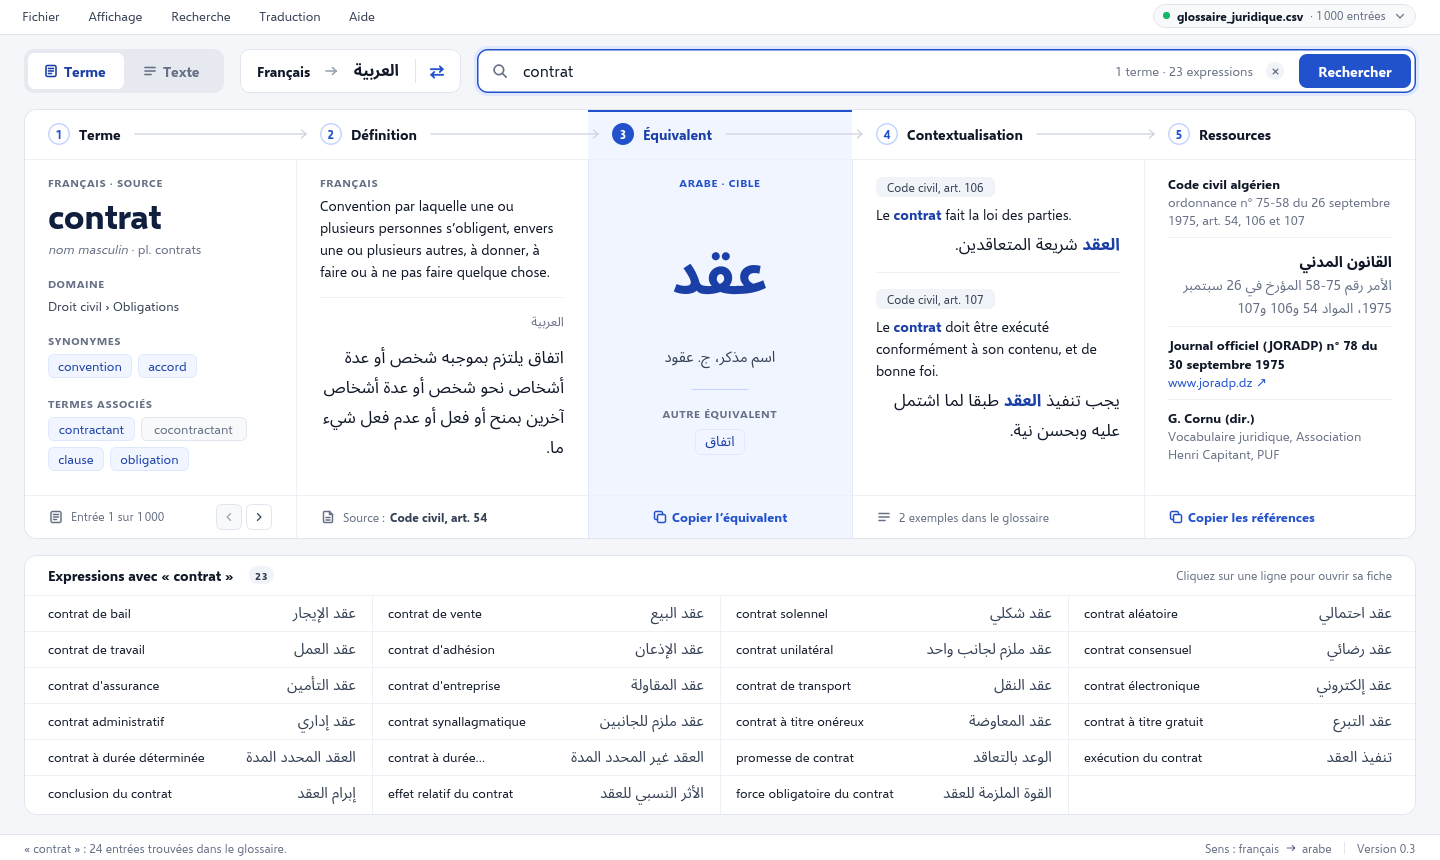
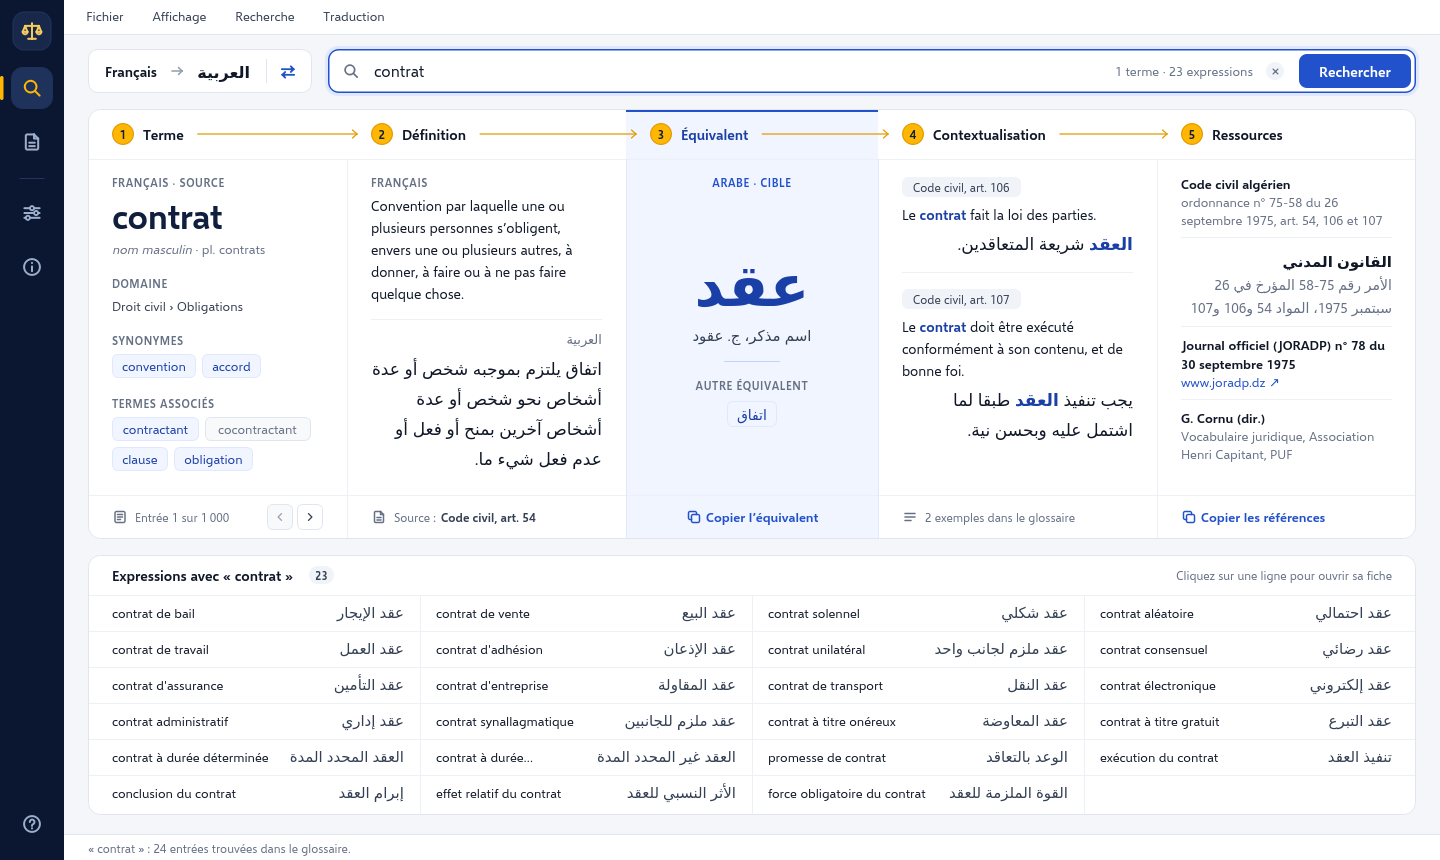
Version 0.4 : README récrit pour la nouvelle interface, captures refaites, pointeur d'attente pendant la traduction et « Tout développer »

diff --git a/tests/test_interface_texte.py b/tests/test_interface_texte.py
@@ -357,6 +357,42 @@ def test_ouvrir_et_refermer_les_cartes(page, application):
     assert panneau.bouton_tout.text() == "Tout développer"
 
 
+def test_le_pointeur_d_attente_s_affiche_pendant_une_operation_longue(page, monkeypatch):
+    """Traduire un long texte ou ouvrir toutes les cartes peut durer : le pointeur d'attente l'indique."""
+    pointeurs = []
+
+    def relever() -> None:
+        pointeur = QGuiApplication.overrideCursor()
+        pointeurs.append(None if pointeur is None else pointeur.shape())
+
+    # Pendant la traduction.
+    traduire_vraiment = page.traducteur.traduire
+    monkeypatch.setattr(page.traducteur, "traduire", lambda *arguments: (relever(), traduire_vraiment(*arguments))[1])
+    page.inserer_un_exemple()
+    page.traduire()
+    assert pointeurs == [Qt.CursorShape.WaitCursor] and QGuiApplication.overrideCursor() is None
+    assert page.traduction is not None and len(page.termes.cartes) > 2
+    # Pendant « Tout développer ».
+    derniere = page.termes.cartes[-1]
+    ouvrir_vraiment = derniere.definir_ouverte
+    monkeypatch.setattr(derniere, "definir_ouverte",
+                        lambda ouverte, **options: (relever(), ouvrir_vraiment(ouverte, **options))[1])
+    page.termes.bouton_tout.click()
+    assert pointeurs == [Qt.CursorShape.WaitCursor] * 2 and QGuiApplication.overrideCursor() is None
+    assert page.termes.tout_ouvert()
+
+
+def test_le_pointeur_est_retabli_si_la_traduction_echoue(page, monkeypatch):
+    def echouer(*arguments):
+        raise RuntimeError("panne")
+
+    monkeypatch.setattr(page.traducteur, "traduire", echouer)
+    page.inserer_un_exemple()
+    with pytest.raises(RuntimeError):
+        page.traduire()
+    assert QGuiApplication.overrideCursor() is None
+
+
 def test_un_seul_terme_n_a_pas_de_bouton_tout_developper(page):
     traduire(page, "Le juge.")
     assert termes_des_cartes(page) == ["juge"] and page.termes.cartes[0].ouverte

diff --git a/traducteur/interface/composants.py b/traducteur/interface/composants.py
@@ -2,13 +2,15 @@
 
 from __future__ import annotations
 
-from collections.abc import Sequence
+from collections.abc import Iterator, Sequence
+from contextlib import contextmanager
 from html import escape
 
 from PySide6.QtCore import QPoint, QPointF, QRect, QRectF, QSize, Qt
 from PySide6.QtGui import QColor, QFont, QFontMetricsF, QPainter, QPainterPath, QPen
 from PySide6.QtWidgets import (
     QAbstractButton,
+    QApplication,
     QBoxLayout,
     QFrame,
     QLabel,
@@ -53,6 +55,20 @@ def direction(langue: str) -> Qt.LayoutDirection:
 def alignement(langue: str) -> Qt.AlignmentFlag:
     """Alignement horizontal du texte d'une langue : à droite pour l'arabe."""
     return DROITE if est_rtl(langue) else GAUCHE
+
+
+@contextmanager
+def sablier() -> Iterator[None]:
+    """Affiche le pointeur d'attente pendant une opération qui peut durer (texte long).
+
+    La fenêtre ne répond pas pendant l'opération : le pointeur le fait savoir. Il est rétabli
+    dans tous les cas, même si l'opération échoue.
+    """
+    QApplication.setOverrideCursor(Qt.CursorShape.WaitCursor)
+    try:
+        yield
+    finally:
+        QApplication.restoreOverrideCursor()
 
 
 def infobulle(*paragraphes: str, espace: int = 6) -> str:

diff --git a/traducteur/interface/termes.py b/traducteur/interface/termes.py
@@ -45,6 +45,7 @@ from .composants import (
     paragraphe,
     pastille,
     puce_neutre,
+    sablier,
     separateur,
 )
 from .dessin import abreger, dessiner_ligne, dessiner_numero, largeur_du_texte, police
@@ -603,9 +604,14 @@ class PanneauTermes(Panneau):
         return bool(self.cartes) and all(carte.ouverte for carte in self.cartes)
 
     def definir_tout(self, ouvert: bool) -> None:
-        """Ouvre ou referme toutes les cartes d'un coup (sans animation)."""
-        for carte in self.cartes:
-            carte.definir_ouverte(ouvert, animer=False)
+        """Ouvre ou referme toutes les cartes d'un coup (sans animation).
+
+        Le contenu d'une carte n'est construit qu'à sa première ouverture : les ouvrir toutes
+        prend plusieurs secondes quand le texte compte des centaines de termes.
+        """
+        with sablier():
+            for carte in self.cartes:
+                carte.definir_ouverte(ouvert, animer=False)
         if not ouvert:
             self.defilement.revenir_en_haut()
 

diff --git a/traducteur/interface/texte.py b/traducteur/interface/texte.py
@@ -71,6 +71,7 @@ from .composants import (
     infobulle,
     nombre,
     repeindre,
+    sablier,
     separateur,
 )
 from .dessin import abreger, dessiner_ligne, dessiner_numero, largeur_du_texte, melanger, police
@@ -932,7 +933,8 @@ class PageTexte(QWidget):
             if langue is not None and langue != self.source:
                 self.definir_sens(langue)
                 self.message.emit(f"Texte écrit en {NOM_EN_FRANCAIS[langue]} : le sens de traduction a été inversé.")
-        self._afficher(self.traducteur.traduire(texte, self.source))
+        with sablier():
+            self._afficher(self.traducteur.traduire(texte, self.source))
 
     def _afficher(self, traduction: Traduction | None) -> None:
         """Affiche une traduction, ou l'état initial si ``traduction`` est vide."""

diff --git a/traducteur/__init__.py b/traducteur/__init__.py
@@ -9,5 +9,5 @@ Le paquet est organisé en deux parties :
 * l'interface de bureau (PySide6 / Qt), dans le sous-paquet ``interface``.
 """
 
-__version__ = "0.3.0"
+__version__ = "0.4.0"
 NOM_APPLICATION = "Traducteur juridique"
